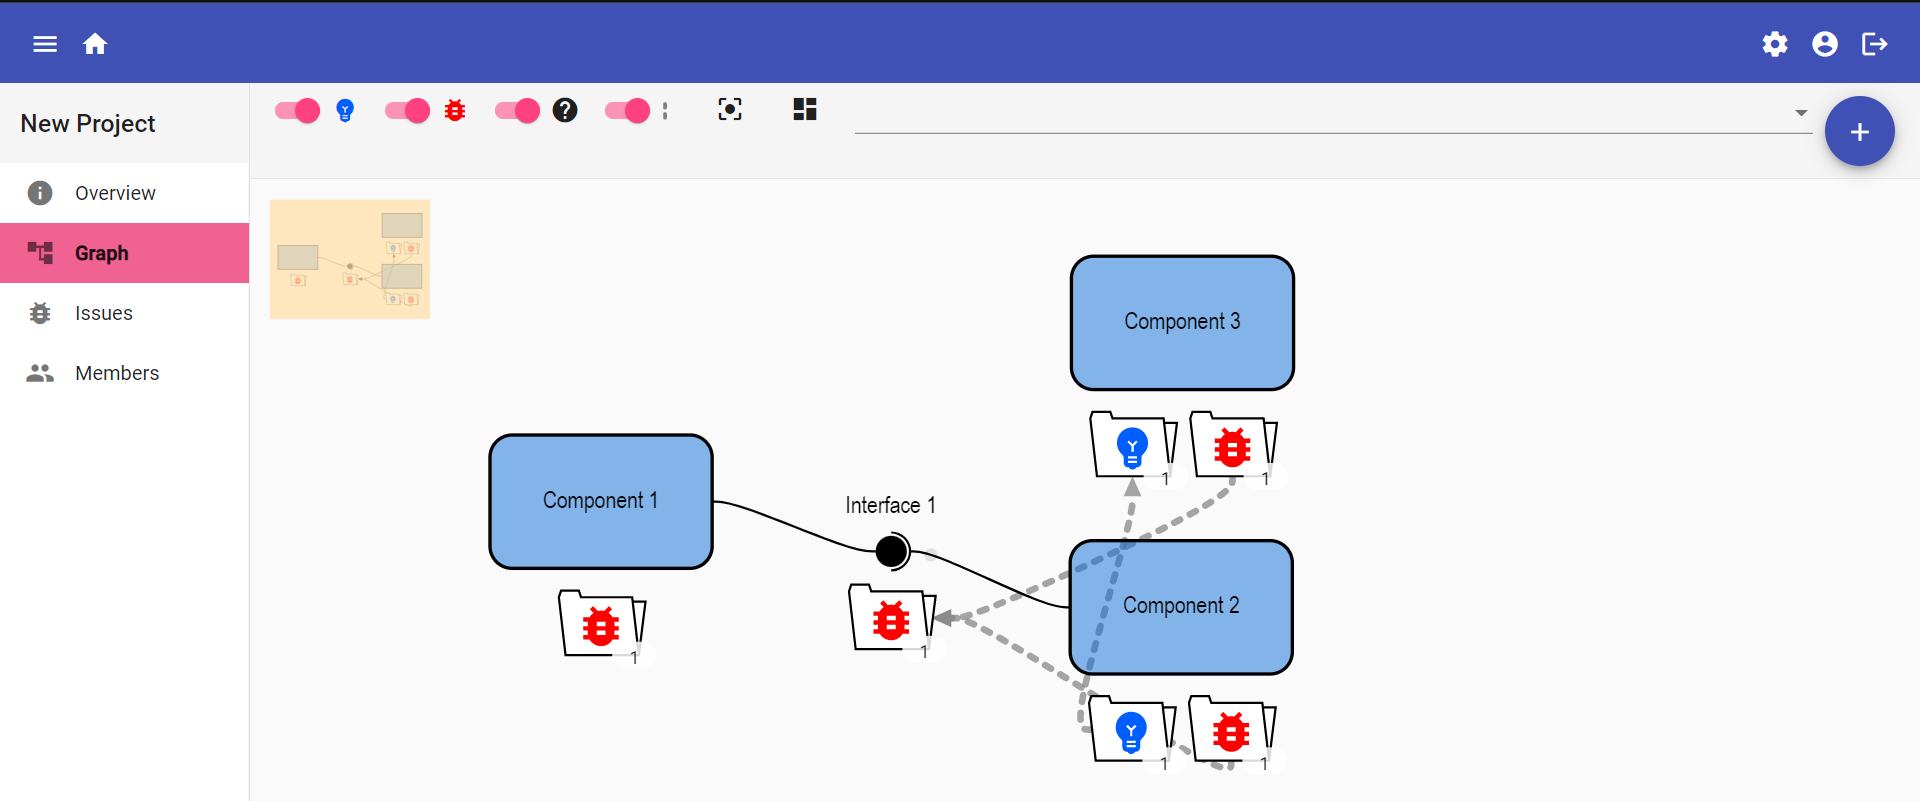
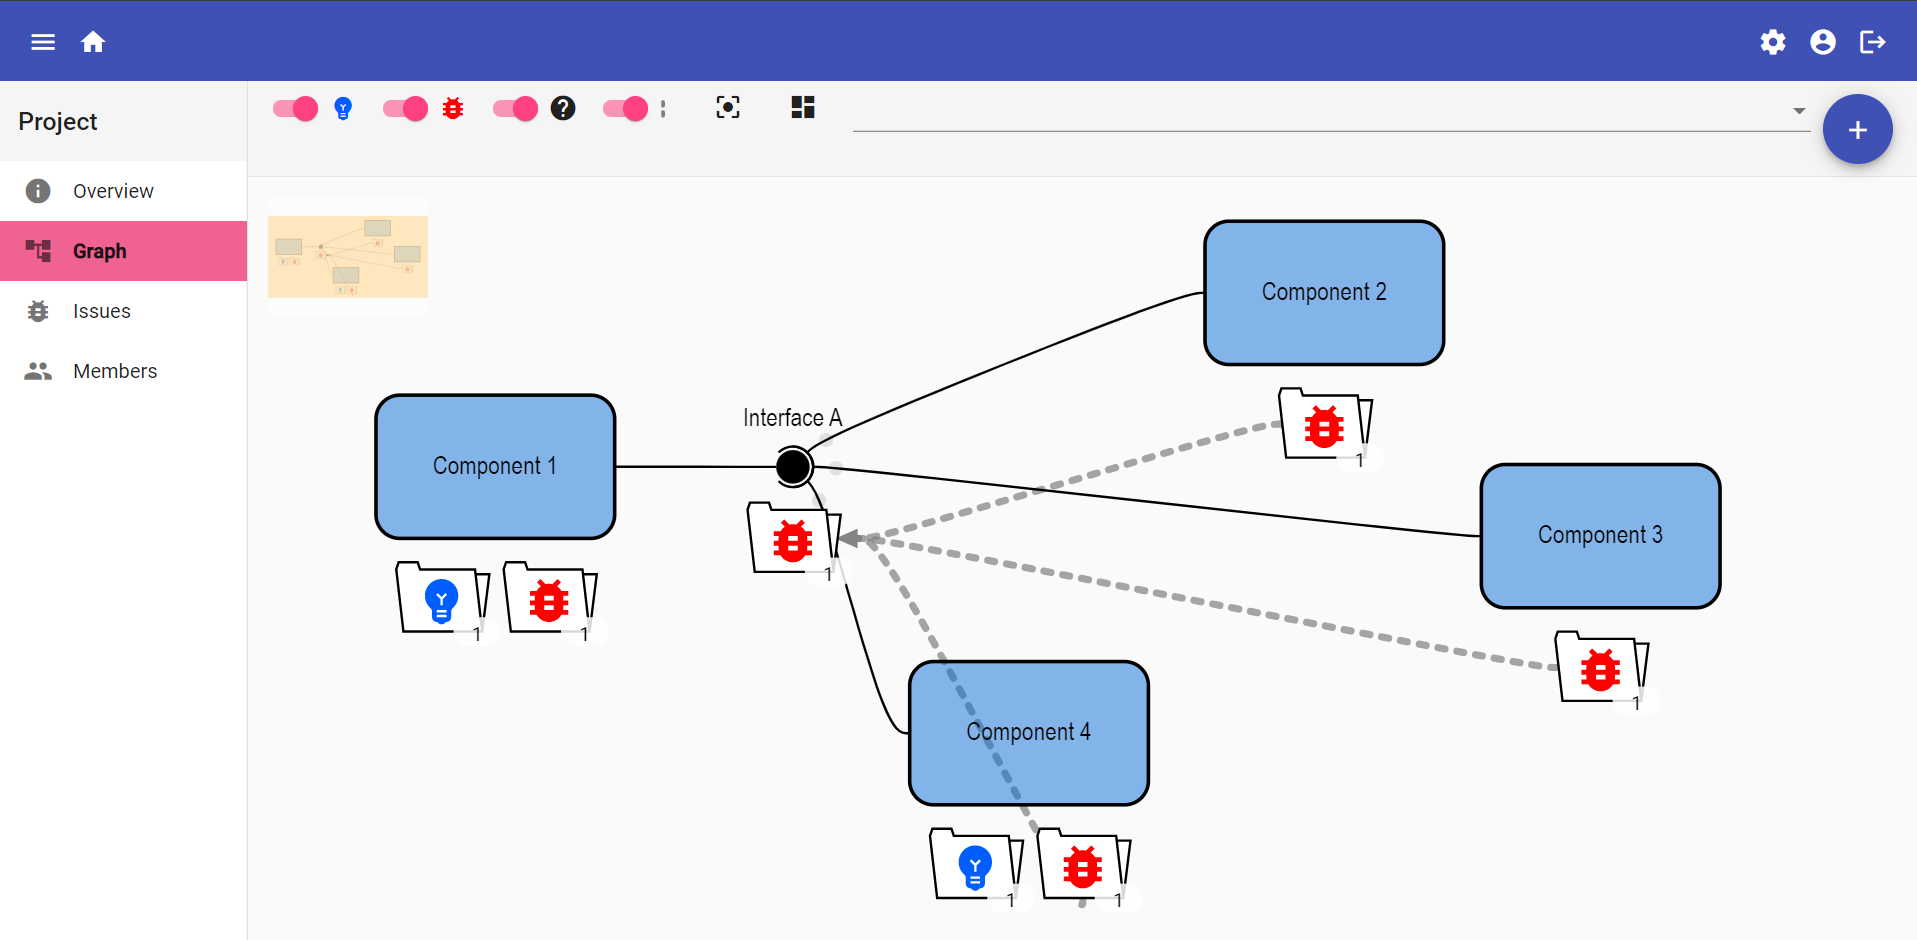
README graph updated

diff --git a/README.md b/README.md
@@ -12,20 +12,26 @@ Gropius is a **cross component issue management system** (CCIMS) that solves the
 
 As already mentioned, the idea behind Gropius is to manage cross-component issues for component-based architectures. The system graphically models cross-component problems along with the system architecture. The graphical representation is similar to that of an UML component diagram.
 
-The system consists of two different parts: 1. the [frontend](https://github.com/ccims/ccims-frontend) and 2. the [backend](https://github.com/ccims/ccims-backend-gql).
+Architecture of the project:
 
-The frontend is responsible for visualizing the part of the system the user can interact with aka. the graphical representation of components and issues and also different methods of managing them. Said methods include 1. creating components, interfaces and issues, 2. editing them, 3. analysing the current status of given issues and their propagation, etc. More about this can be found in the next point of this file.
+| frontend | backend | IMS |
+| :-: | :-: | :-: |
+| [ccims-frontend](https://github.com/ccims/ccims-frontend) | [ccims-backend](https://github.com/ccims/ccims-backend) | [ccims-backend-gql](https://github.com/ccims/ccims-backend-gql) |
 
-Here is a shot of the way Gropius visualizes a project:  
-(TODO: put a picture that presents more features of Gropius at once...)
+The [current repository](https://github.com/ccims/ccims-frontend) handles the frontend of the Gropius system. The frontend is responsible for visualizing the part of the system the user can interact with aka. the graphical representation of components and issues and also different methods of managing them. Said methods include 1. creating components, interfaces and issues, 2. editing them, 3. analysing the current status of given issues and their propagation, etc.
+
+Below is an example how Gropius visualizes a project as a graph. It shows all the components, issues, interfaces and links between the issues. As seen on the picture, a bug (red symbol) in Component 1 has propagated to Component 2, Component 3 and Component 4 because of Interface A that is connecting them all. What's more, Component 1 and Component 4 have feature requests (blue symbol) that need to be handled. Above the graph there are different check boxes / buttons that make handling the graph much easier, e.g., the fourth one shows / hides connections between linked issues. A search bar can help the user find a component / interface / issue by filtering for a specific text or label. The button in the top right corner is used to create new components. And there are also many other pages the user can visit, like "Settings", "Issues", etc.
 
 <br />
 <p align="center">
-<img src="https://raw.githubusercontent.com/ccims/ccims-frontend/master/src/frontend-preview/preview00.png" width="700"/>
+<img src="https://raw.githubusercontent.com/ccims/ccims-frontend/master/src/frontend-preview/preview00.png" width="1000"/>
 </p>
 <br />
 
-## About the documentation
+Of course the frontend of the Gropius system includes many more features. Information about most of them can be found on [Using Gropius](https://ccims.github.io/ccims-frontend/additional-documentation/using-gropius.html).  
+p.s. If running the documentation locally, then click [here](additional-documentation/using-gropius.html).
+
+## Layout of the documentation
 
 1. Development server:  
 run `npm start` and navigate to [http://localhost:4200/](http://localhost:4200/).
